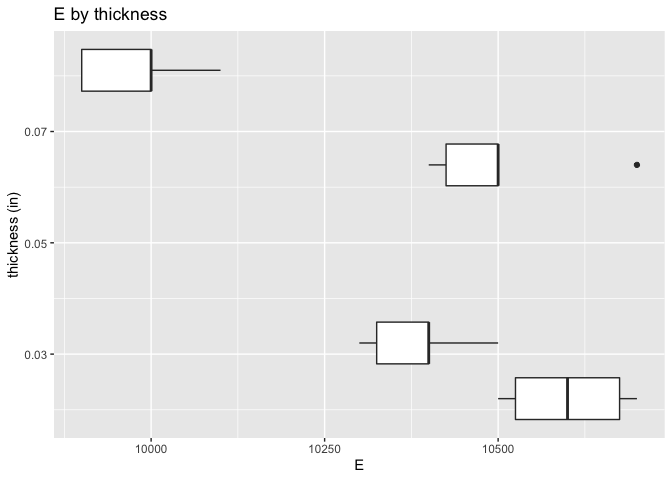
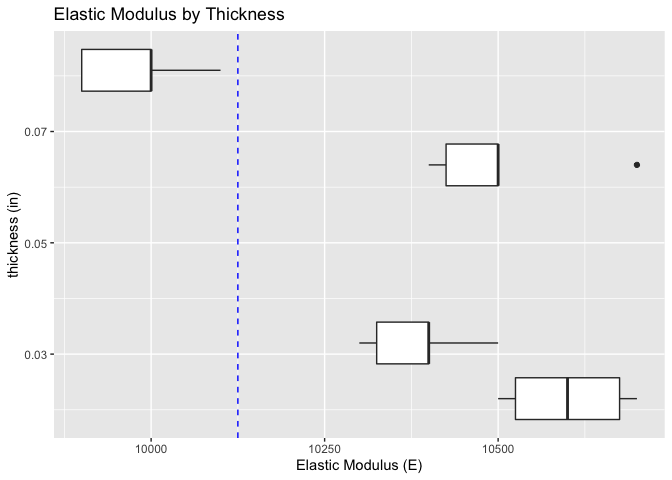
Add second-pass at c03-stang
- Clean up plots
- Update observations

Changed region(s): [[0.0938, 0.0, 0.4375, 0.0625], [0.4375, 0.9375, 0.625, 1.0]]

diff --git a/challenges/c03-stang-assignment.md b/challenges/c03-stang-assignment.md
@@ -286,19 +286,21 @@ you need additional information to answer your question?
 df_stang_long %>%
   ggplot() +
   geom_boxplot(aes(y = E, x = thick, group = thick)) +
+  geom_hline(yintercept = 10125, color = "blue", linetype = "dashed") +
   coord_flip() +
-  labs(title = "E by thickness", x = "thickness (in)")
+  labs(title = "Elastic Modulus by Thickness", x = "thickness (in)", y = "Elastic Modulus (E)")
 ```
 
 ![](c03-stang-assignment_files/figure-gfm/q3-task-plot-1A-1.png)<!-- -->
 
 **Observations**:
 
-  - Overall, there is an inverse relationship between thickness and E -
-    as E increases, thickness decreases
-      - However, this relationship is not supported by the data when
-        `thick = 0.064` as the median E is greater than that of `thick
-        = 0.032`
+  - Overall, there is an inverse relationship between thickness and E
+    though the relationship is not linear across the thicknesses tested
+      - When `thick = 0.064`, the median E is greater than that of
+        `thick = 0.032`
+      - `0.081` has the lowest E while E \> 10,125 for all other
+        thicknesses
 
 <!-- end list -->
 
@@ -306,23 +308,22 @@ df_stang_long %>%
 df_stang_long %>%
   ggplot() +
   geom_boxplot(aes(y = E, x = thick, group = thick)) +
+  geom_hline(yintercept = 10125, color = "blue", linetype = "dashed") +
   facet_grid(~ angle ~ .) +
   coord_flip() +
-  labs(title = "E by thickness (facet by angle) ", x = "thickness (in)")
+  labs(title = "Elastic Modulus by Thickness (facet by angle)", x = "thickness (in)", y = "Elastic Modulus (E)")
 ```
 
 ![](c03-stang-assignment_files/figure-gfm/q3-task-plot-1B-1.png)<!-- -->
 
 **Observations**:
 
-  - Looking into the data more closely (i.e. by angle), the relationship
-    between E and thickness becomes more questionable as the inverse
-    relationship is supported by data when `angle = 45` but not when
-    `angle = 0`
-  - However, E for `thick = 0.022` seem consistent across all three
-    angles
-  - E for `thick = 0.081` also somewhat consistent across all three
-    angles
+  - Angle does not impact the general observation from the prior plot
+    where `thick = 0.081` values all have E values of \< 10,125 (the
+    dotted blue line)
+  - E for `thick = 0.022` seems consistent across all three angles
+  - E for `thick = 0.081` also seems somewhat consistent across all
+    three angles
       - Range of medians (and values in general) is much wider for
         `thick = 0.081` than `thick = 0.022` but is still distinct from
         other thicknesses
@@ -334,7 +335,7 @@ df_stang_long %>%
   ggplot() +
   geom_boxplot(aes(y = mu, x = thick, group = thick)) +
   coord_flip() +
-  labs(title = "mu by thickness", x = "thickness (in)")
+  labs(title = "Shear Modulus by Thickness", x = "thickness (in)", y = "Sheer Modulus (mu)")
 ```
 
 ![](c03-stang-assignment_files/figure-gfm/q3-task-plot-2A-1.png)<!-- -->
@@ -350,18 +351,21 @@ df_stang_long %>%
 df_stang_long %>%
   ggplot() +
   geom_boxplot(aes(y = mu, x = thick, group = thick)) +
+  geom_hline(yintercept = 0.31625, color = "blue", linetype = "dashed") +
   facet_grid(~ angle ~ .) +
   coord_flip() +
-  labs(title = "mu by thickness (facet by angle) ", x = "thickness (in)")
+  labs(title = "Sheer Modulus by Thickness (facet by angle)", x = "thickness (in)", y = "Sheer Modulus (mu)")
 ```
 
 ![](c03-stang-assignment_files/figure-gfm/q3-task-plot-2B-1.png)<!-- -->
 
 **Observations**:
 
-  - Unlike E, mu data seems more chaotic and doesn’t seem to show a
-    relationship between thickness and mu in general or by angle
-  - Across the angles, there aren’t obvious patterns
+  - Across all angles, the median sheer modulus (`mu`) is less than
+    0.31625 (the dotted blue line) for `thick = 0.081` and is the lowest
+    value across all thicknesses
+  - All `mu` values less than 0.31625 are associated with `thick
+    = 0.081`
   - The lowest thickness (`thick = 0.022`) has the widest range of mu
     values
 
